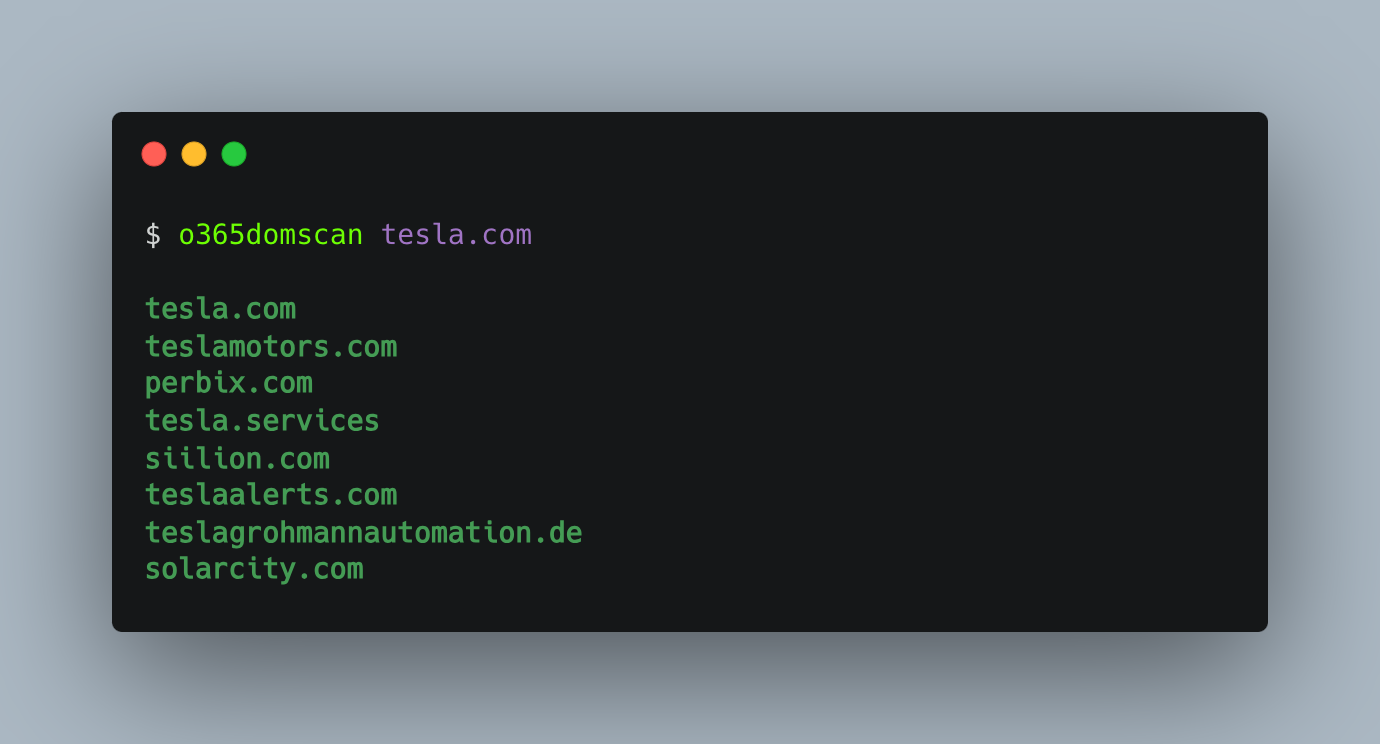
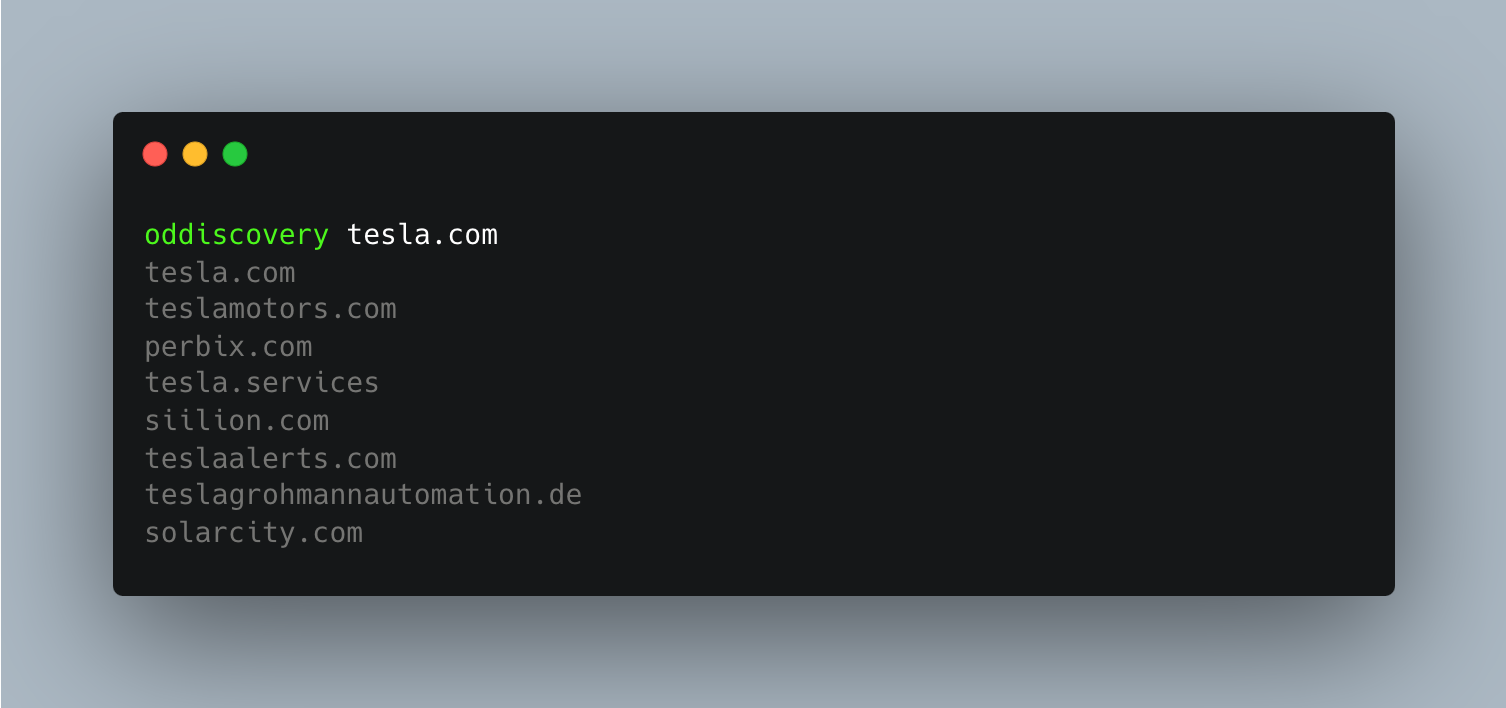
Update readme

Changed region(s): [[0.0623, 0.1554, 0.4362, 0.839], [0.0935, 0.1554, 0.9348, 0.8701], [0.0935, 0.1243, 0.9036, 0.1554]]

diff --git a/README.md b/README.md
@@ -3,7 +3,7 @@
   <br>
 </h1>
 
-<h4 align="center">`oddiscovery` is a Python script designed to identify and list domains related to a given domain within the Office 365 environment.</h4>
+<h4 align="center"><i>oddiscovery</i> is a Python script designed to identify and list domains related to a given domain within the Office 365 environment.</h4>
 
 ## Features
 
@@ -42,9 +42,21 @@ Here is an example of how to use `oddiscovery`:
 
 ![alt text](image.png)
 
+<br>
+  <!--Tweet button-->
+  <a href="https://twitter.com/intent/tweet?text=subdominex%20-%20Domain%20Asset%20Identification%20Tool%20https%3A%2F%2Fgithub.com%2Fphor3nsic%2Fsubdominex%20%23bash%20%23github%20%23linux%20%23infosec%20%23bugbounty" target="_blank">Share on Twitter!
+  </a>
+</p>
+
 ## Contributing
 
 Feel free to fork this project, create a branch, and submit a pull request with your improvements.
+
+## Buy Me A Coffee
+
+If you have saved time or money using one of my tools and feel grateful for it, feel free to contribute so that I can dedicate more time to developing solutions.
+
+<a href="https://www.buymeacoffee.com/phor3nsic" target="_blank"><img src="https://cdn.buymeacoffee.com/buttons/v2/default-yellow.png" alt="Buy Me A Coffee" style="height: 60px !important;width: 217px !important;" ></a>
 
 ## License
 
